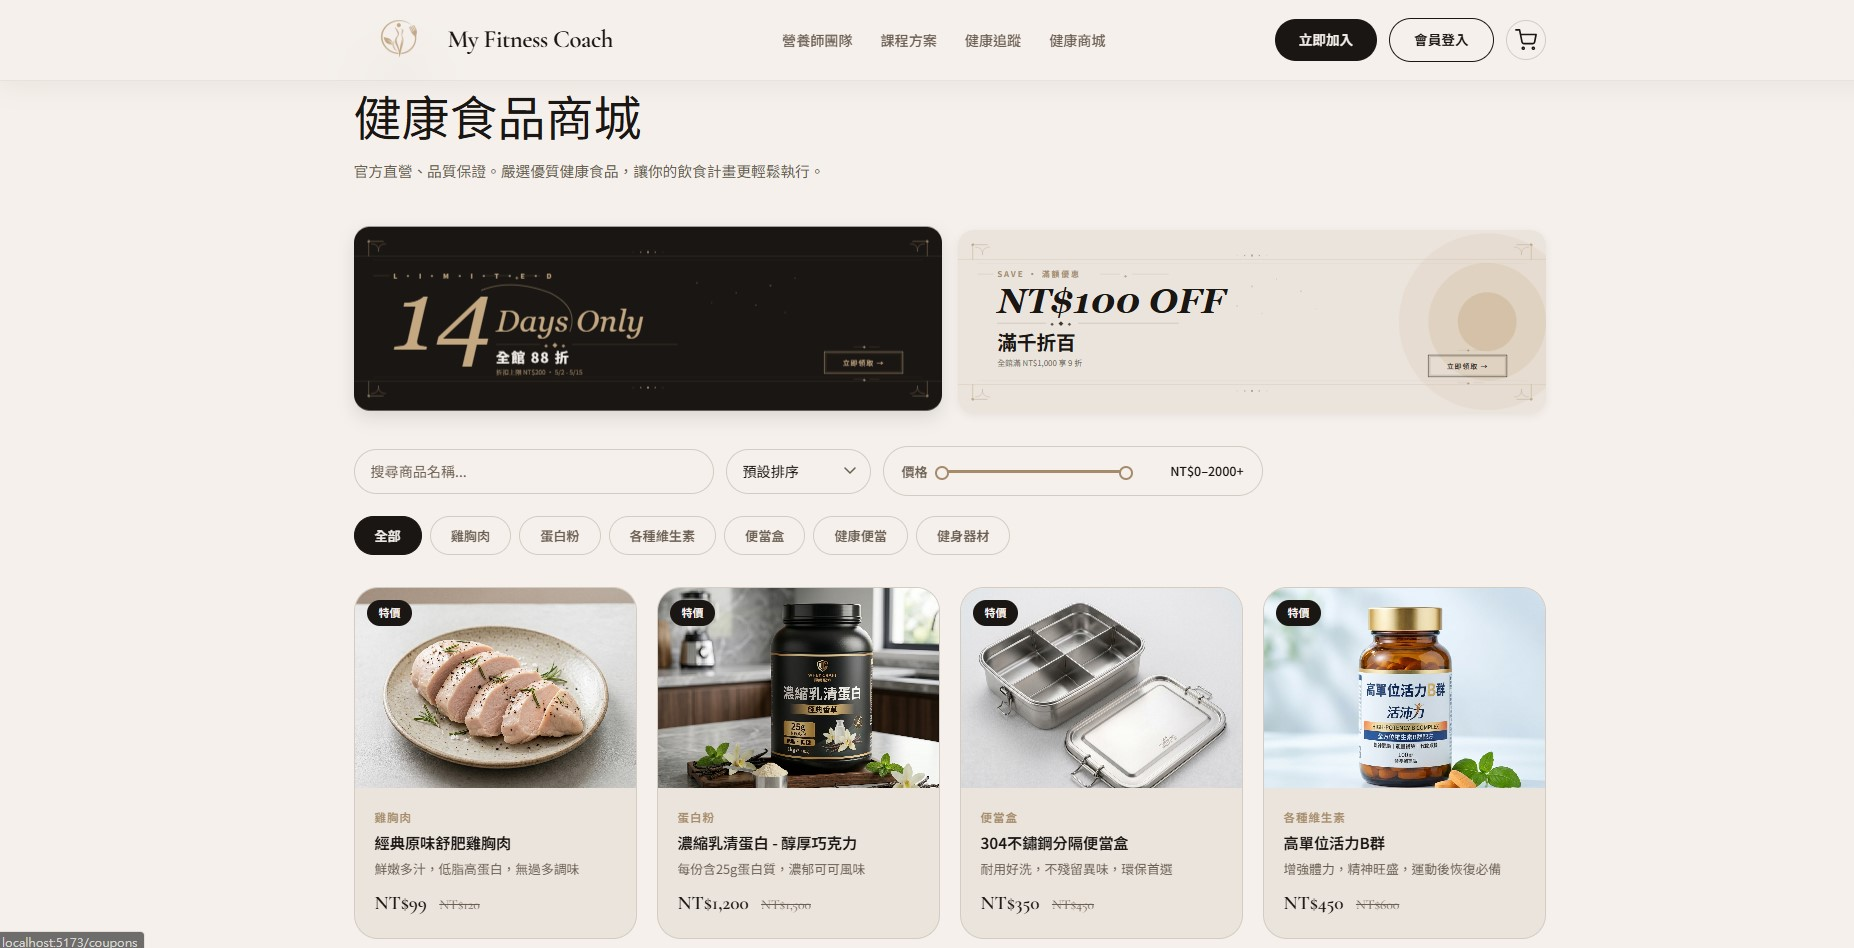
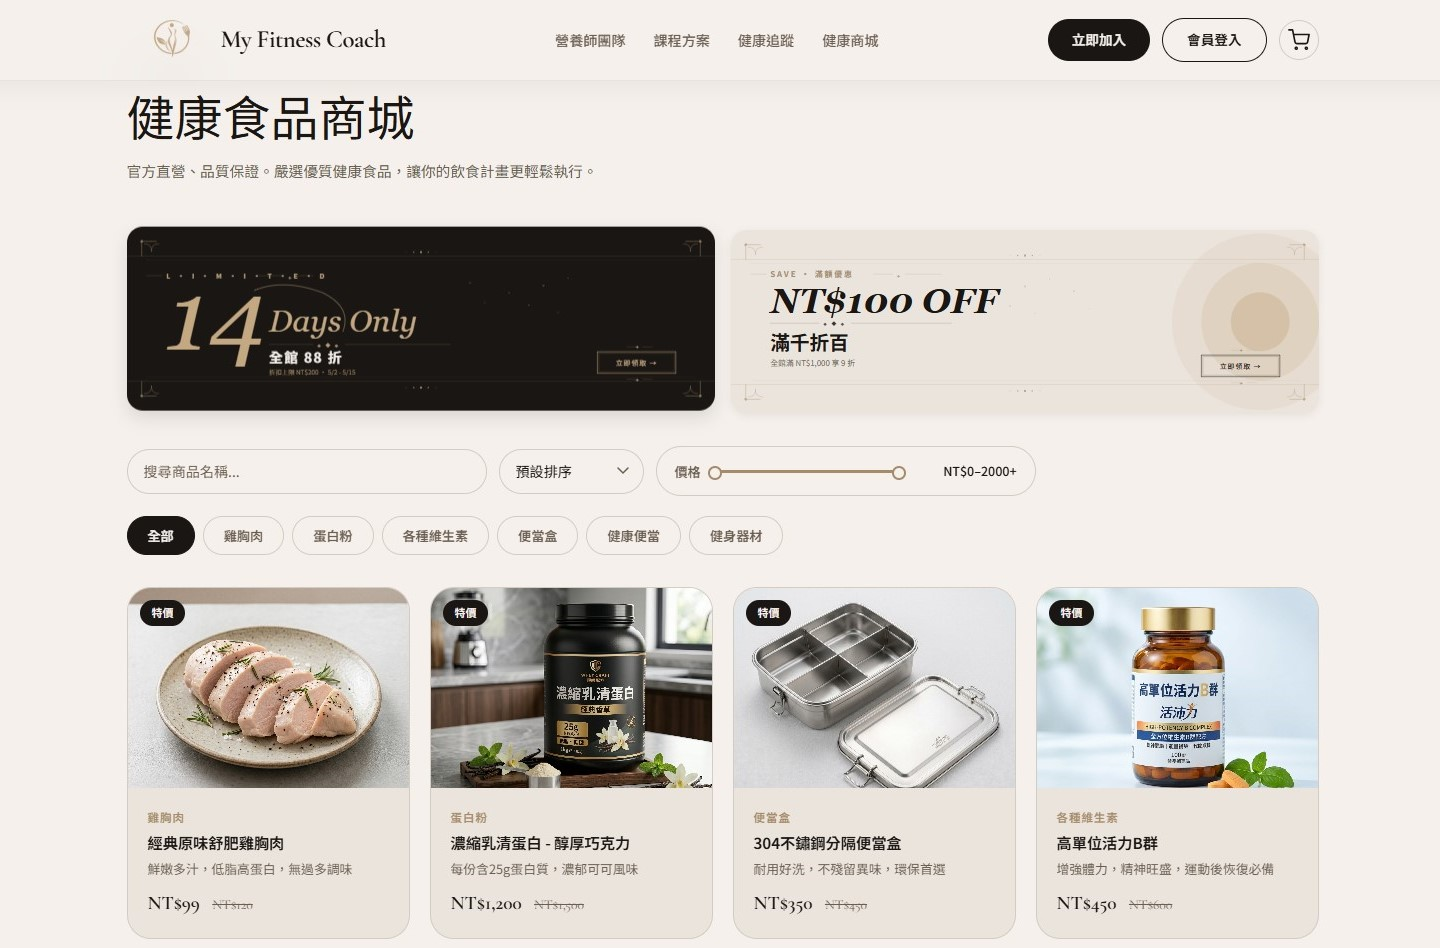
修正readme

diff --git a/README.md b/README.md
@@ -82,11 +82,14 @@ npm run build
 
 ## 介面縮影
 
-| 商城主介面 | 購物車與優惠券 |
-| :---: | :---: |
-| ![商城](./專題畫面截圖/商城+廣告.jpg) | ![購物車](./專題畫面截圖/購物車優惠券試算手動自動.png) |
+**商城主介面**
 
----
+![商城](./專題畫面截圖/商城+廣告.jpg)
 
-## 開發體悟
-透過 Vue 3 的 Composition API，我深刻體會到「邏輯抽離」對大型前端專案的重要性。將複雜的購物車合併邏輯與優惠券演算法封裝成 Composable，不僅讓視圖層（View）變得純粹，也讓代碼的複用性與可讀性達到了商業級標準。
+**購物車**
+
+![購物車](./專題畫面截圖/購物車.jpg)
+
+**優惠券試算**
+
+![優惠券試算](./專題畫面截圖/購物車優惠券試算手動自動.png)